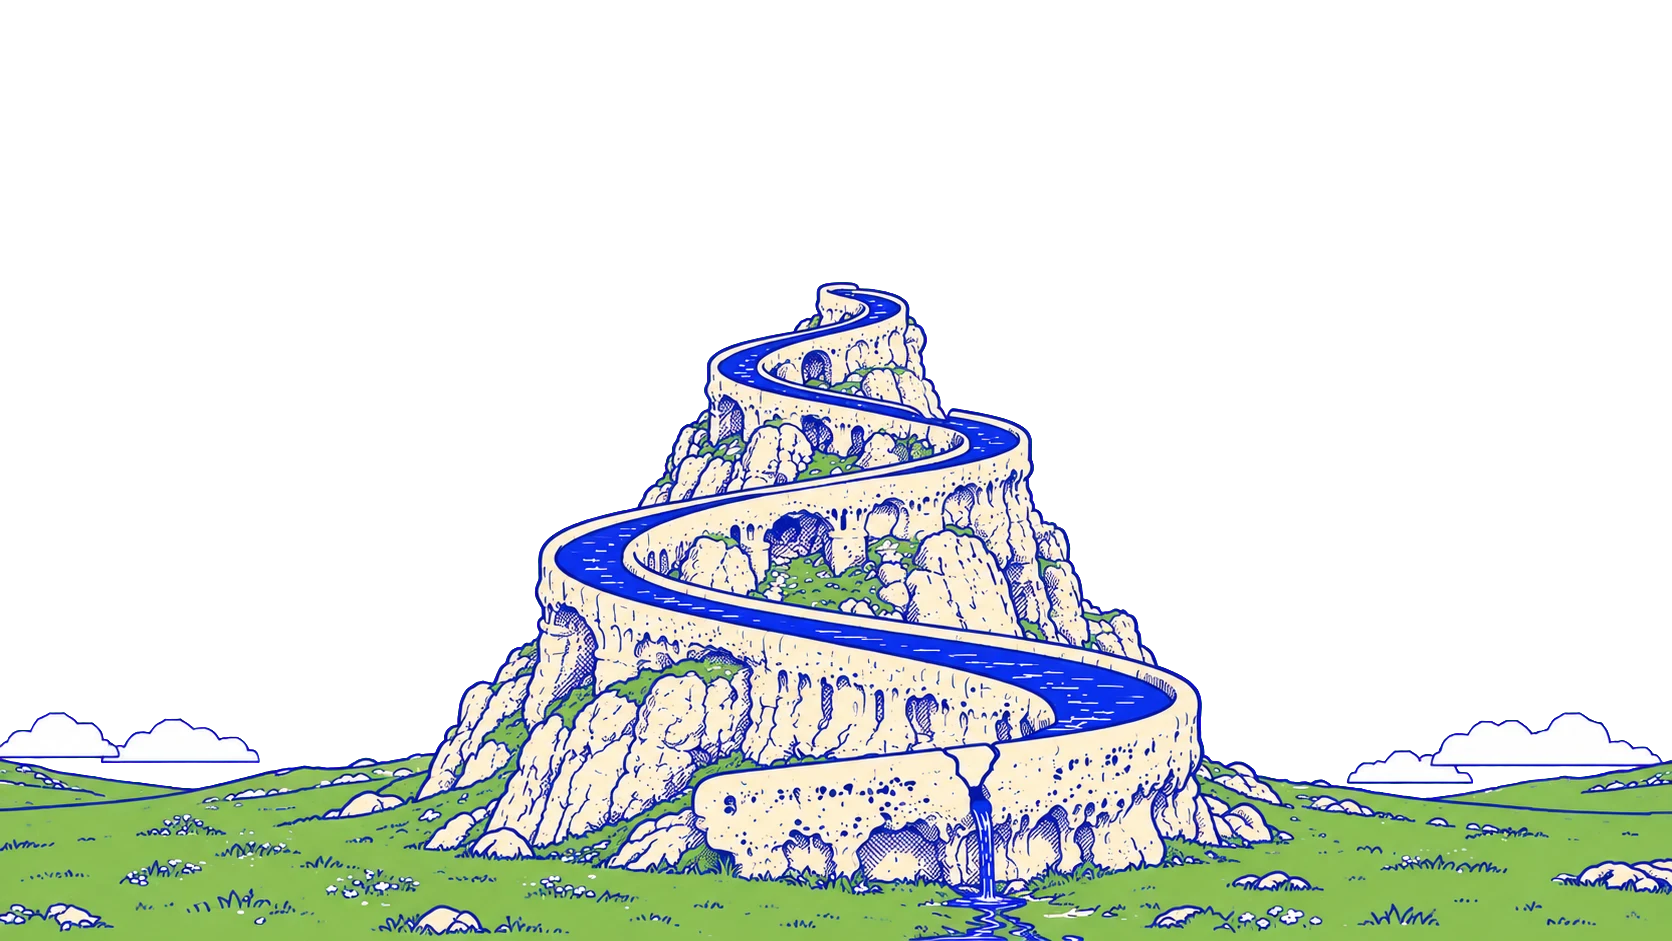
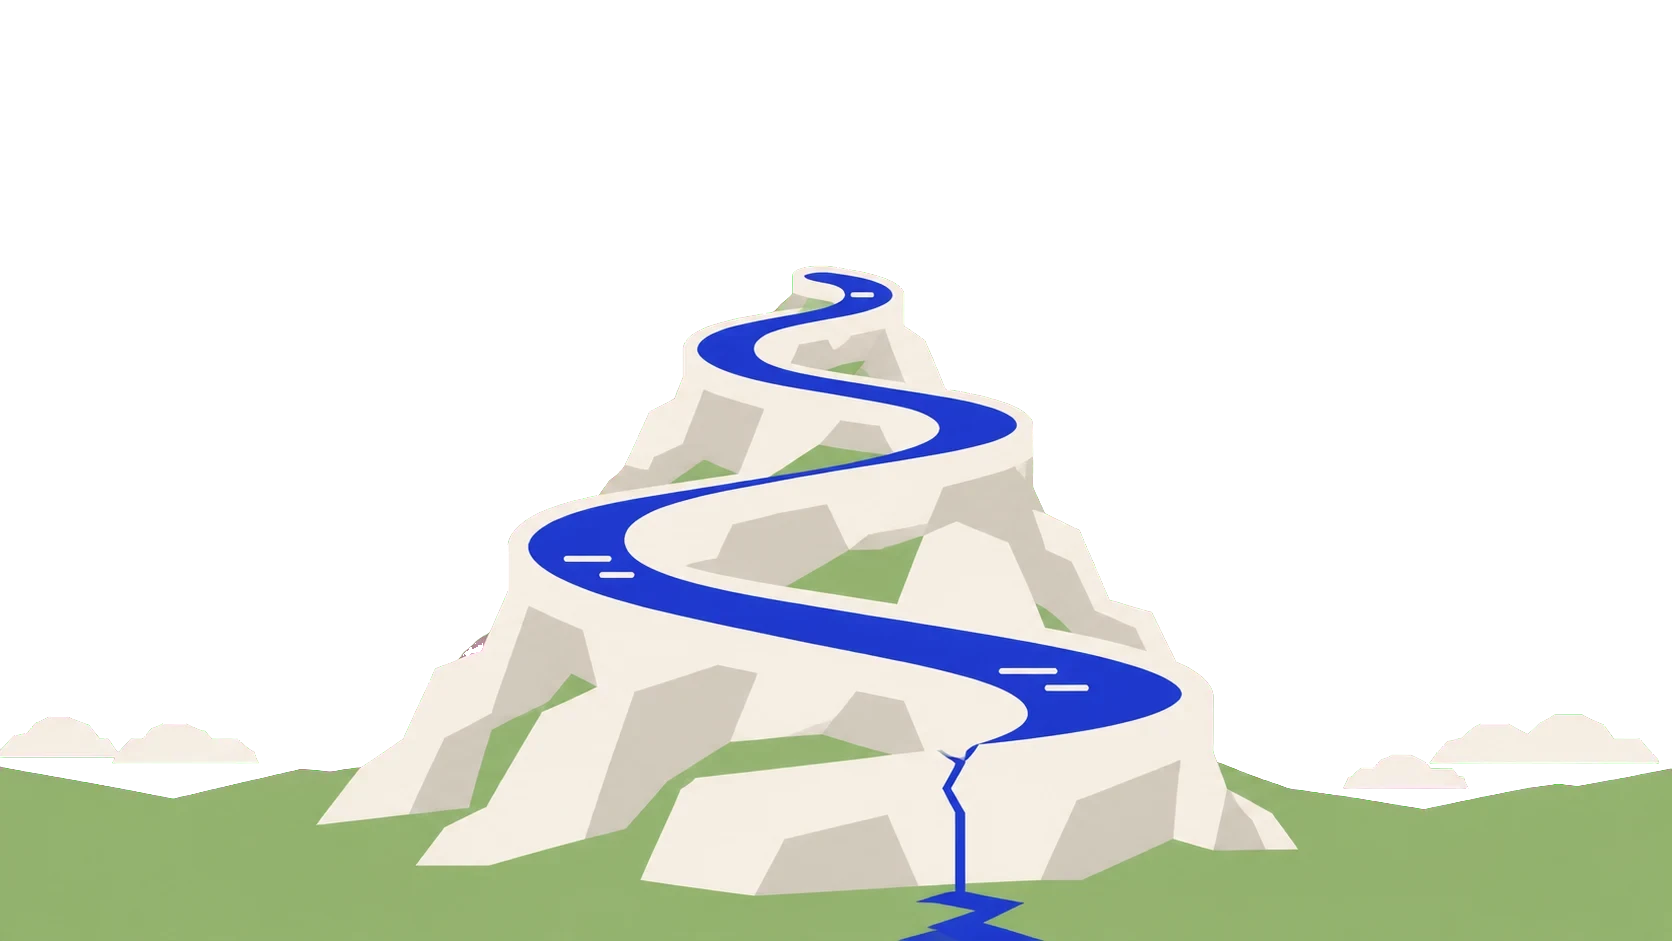
feat(home): animate and refine the aqueduct hero
- Update hero artwork and adjust responsive copy placement

Changed region(s): [[0.0, 0.2774, 1.0, 1.0]]

diff --git a/src/styles/_pages.scss b/src/styles/_pages.scss
@@ -39,12 +39,12 @@
   mask-image: linear-gradient(to right, transparent, #000 8%, #000 92%, transparent);
 }
 
-// The peak sits 0.394 scene-widths above the bottom edge
+// The peak sits 0.404 scene-widths above the bottom edge
 .home-hero__head {
   position: absolute;
   z-index: 0;
   right: 0;
-  bottom: calc(var(--scene) * 0.394 - var(--headline) * 0.42);
+  bottom: calc(var(--scene) * 0.404 - var(--headline) * 0.62);
   left: 0;
   text-align: center;
 
@@ -60,7 +60,7 @@
   }
 }
 
-// Paragraph and actions sit beside the rock's narrow middle, about 0.15 scene-widths from centre
+// Paragraph and actions sit beside the rock, which reaches about 0.19 scene-widths left of centre at that height
 .home-hero__foot {
   position: absolute;
   z-index: 2;
@@ -73,7 +73,7 @@
   gap: 40px;
 
   p {
-    max-width: min(300px, calc(50vw - var(--scene) * 0.15 - (100vw - min(100vw - 48px, #{$container})) / 2 - 24px));
+    max-width: min(300px, calc(50vw - var(--scene) * 0.19 - (100vw - min(100vw - 48px, #{$container})) / 2 - 24px));
     margin: 0;
     line-height: 1.6;
   }
@@ -94,6 +94,32 @@
 
   .home-hero__foot {
     animation-delay: 120ms;
+  }
+}
+
+@keyframes home-hero-pin {
+  to {
+    translate: 0 100svh;
+  }
+}
+
+// The copy cancels out the first screen of scrolling, so it holds still while the
+// scene rises through it; the copy drops under the scene so the rock covers it.
+@supports (animation-timeline: scroll()) {
+  @media (prefers-reduced-motion: no-preference) {
+    .home-hero__head,
+    .home-hero__foot {
+      z-index: 0;
+      animation:
+        home-hero-enter 800ms cubic-bezier(0.2, 0.75, 0.25, 1) backwards,
+        home-hero-pin linear both;
+      animation-timeline: auto, scroll(root);
+      animation-range: normal, 0 100svh;
+    }
+
+    .home-hero__foot {
+      animation-delay: 120ms, 0s;
+    }
   }
 }
 

diff --git a/src/styles/_responsive.scss b/src/styles/_responsive.scss
@@ -202,49 +202,6 @@
     display: none;
   }
 
-  .home-hero {
-    padding-top: 120px;
-  }
-
-  .home-hero__head {
-    position: static;
-    padding-inline: 24px;
-
-    h1 {
-      font-size: clamp(2.5rem, 11vw, 3.5rem);
-    }
-
-    span {
-      white-space: normal;
-    }
-  }
-
-  .home-hero__foot {
-    position: relative;
-    bottom: auto;
-    flex-direction: column;
-    align-items: stretch;
-    margin-top: 36px;
-
-    p {
-      max-width: none;
-    }
-  }
-
-  .home-hero__actions {
-    align-items: stretch;
-  }
-
-  .home-hero__actions .arrow-link {
-    justify-content: center;
-    min-height: 44px;
-  }
-
-  .home-hero__scene {
-    width: 180%;
-    mask-image: none;
-  }
-
   .page-hero__grid,
   .issue-review,
   .deliverables-section__grid,
@@ -738,5 +695,52 @@
   .site-footer__bottom {
     gap: 8px;
     flex-direction: column;
+  }
+}
+
+@media (max-width: 800px), (max-width: 1100px) and (orientation: portrait) {
+  .home-hero {
+    padding-top: 120px;
+  }
+
+  .home-hero__head {
+    position: static;
+    padding-inline: 24px;
+
+    h1 {
+      font-size: clamp(2.5rem, 11vw, 5rem);
+    }
+
+    span {
+      white-space: normal;
+    }
+  }
+
+  .home-hero__foot {
+    position: relative;
+    bottom: auto;
+    flex-direction: column;
+    align-items: center;
+    margin-top: 36px;
+    text-align: center;
+
+    p {
+      max-width: 440px;
+    }
+  }
+
+  .home-hero__actions {
+    align-items: stretch;
+    width: min(100%, 360px);
+  }
+
+  .home-hero__actions .arrow-link {
+    justify-content: center;
+    min-height: 44px;
+  }
+
+  .home-hero__scene {
+    width: max(700px, 150vw);
+    mask-image: none;
   }
 }

diff --git a/assets/illustrations/aqueduct/README.md b/assets/illustrations/aqueduct/README.md
@@ -1,0 +1,16 @@
+# Aqueduct illustrations
+
+Source files for the home hero scene, generated with Codex image generation and keyed to transparent WebP.
+
+| File | Direction |
+| --- | --- |
+| faceted.webp | Flat faceted planes, one light and one dark tone per surface, no outlines. In use as `public/images/hero/leaking-aqueduct.webp` |
+| editorial.webp | Flat fills with thin near-black outlines, arch openings, sparse rocks and grass |
+
+## Pipeline
+
+Each image is generated on a flat `#FF00FF` background (green would key out the meadow), then keyed: alpha from `min(R, B) − G`, colour un-premultiplied against magenta, remaining pink pixels cleared.
+
+Shared prompt constraints: 16:9, the leaking-aqueduct composition (peak about 30% from the top, crack and stream near the bottom, clouds low at both edges), palette limited to cobalt `#1B2AC7`, cream `#F5F2ED`, warm grey `#DCD9D2`, near-black `#141414` for lines and one muted sage, flat colour only, no text or people.
+
+The hero's headline overlap and copy placement in `src/styles/_pages.scss` are measured from the scene in use (peak height, rock width); re-measure them when the scene changes.
